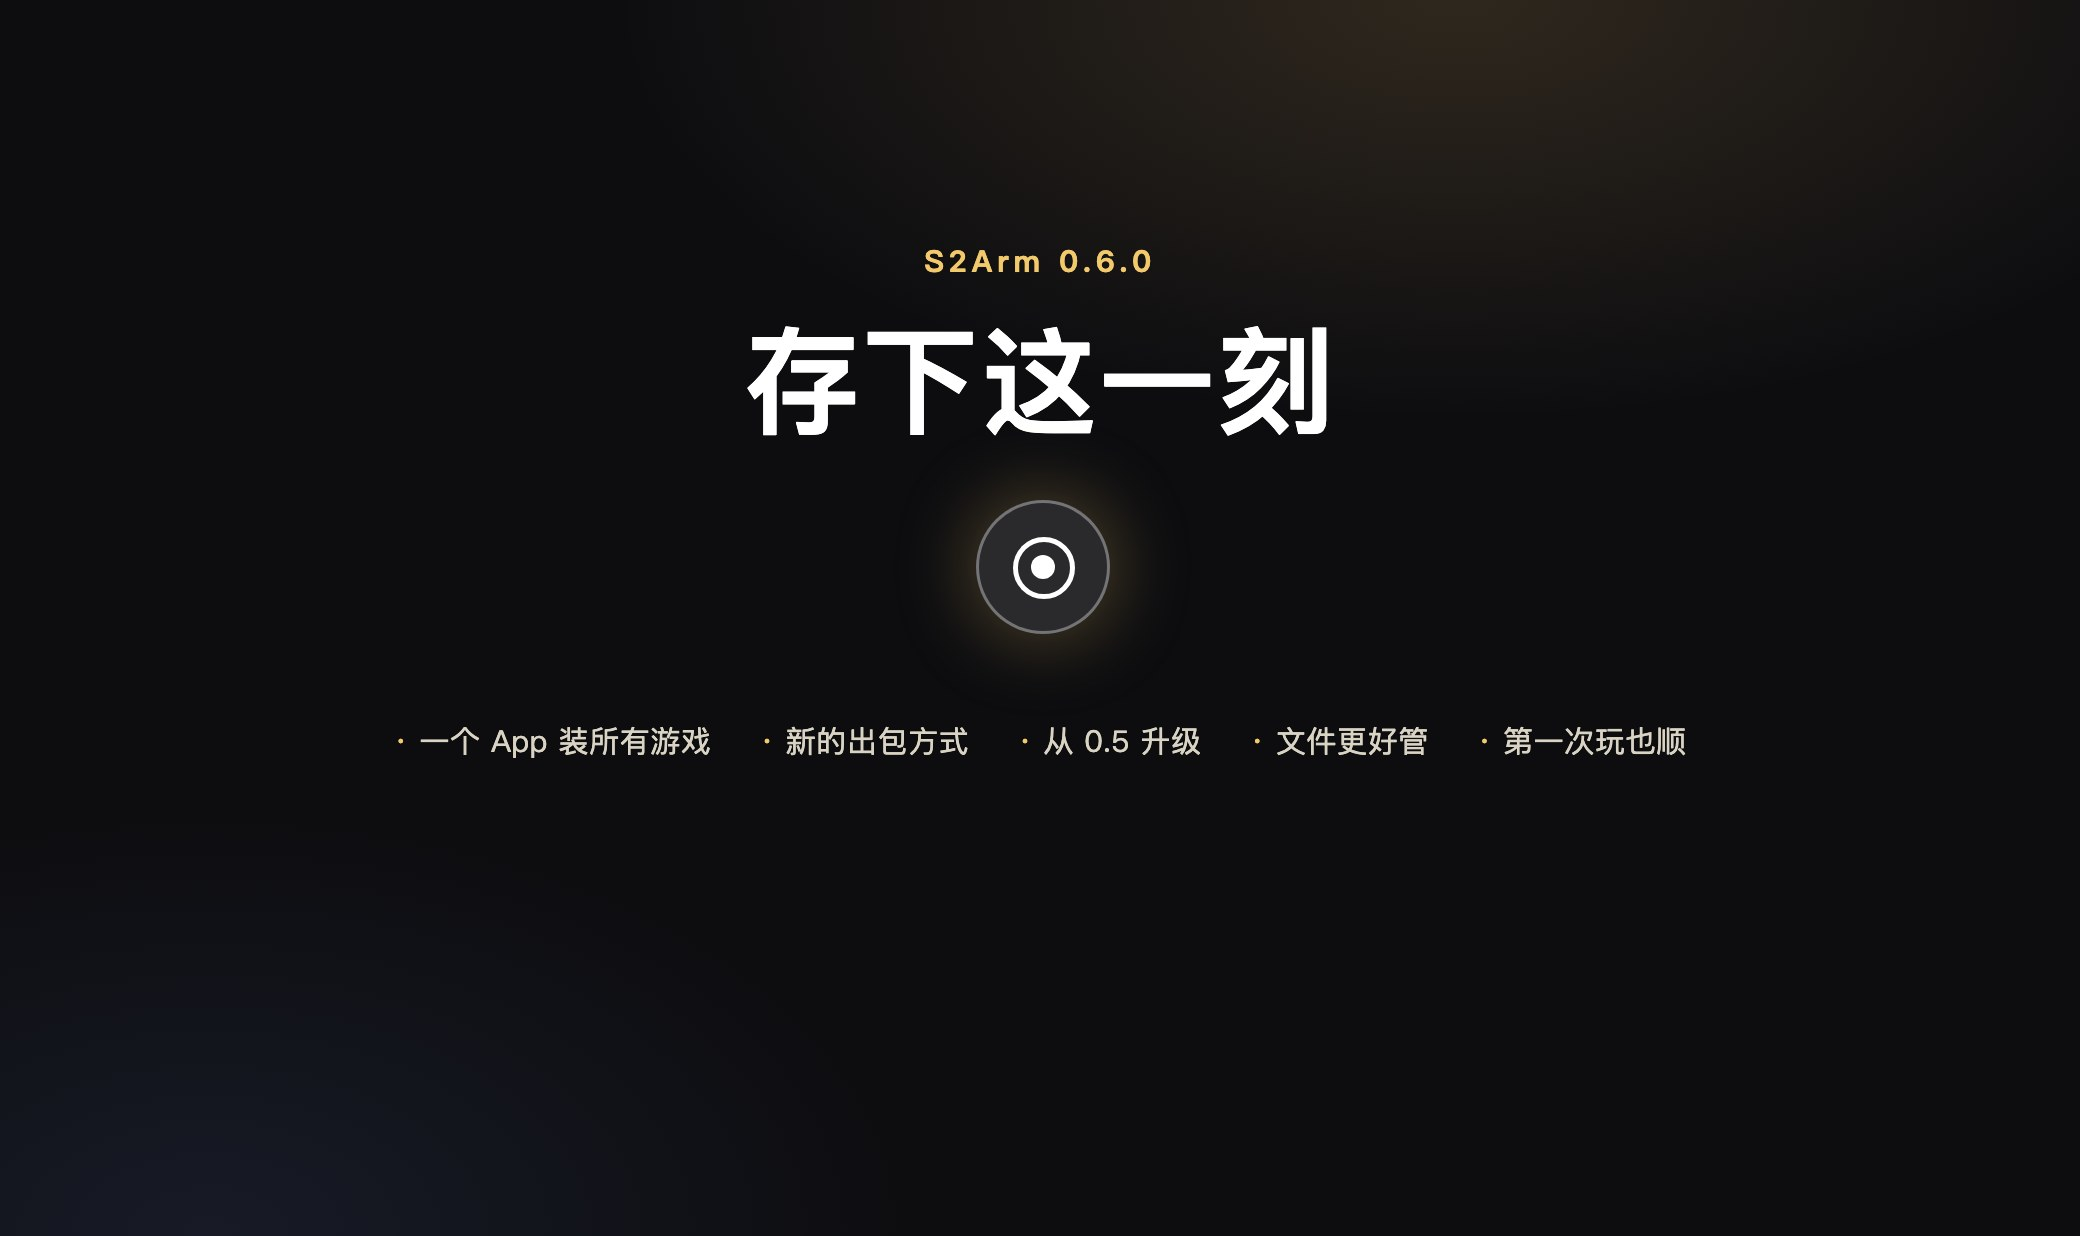
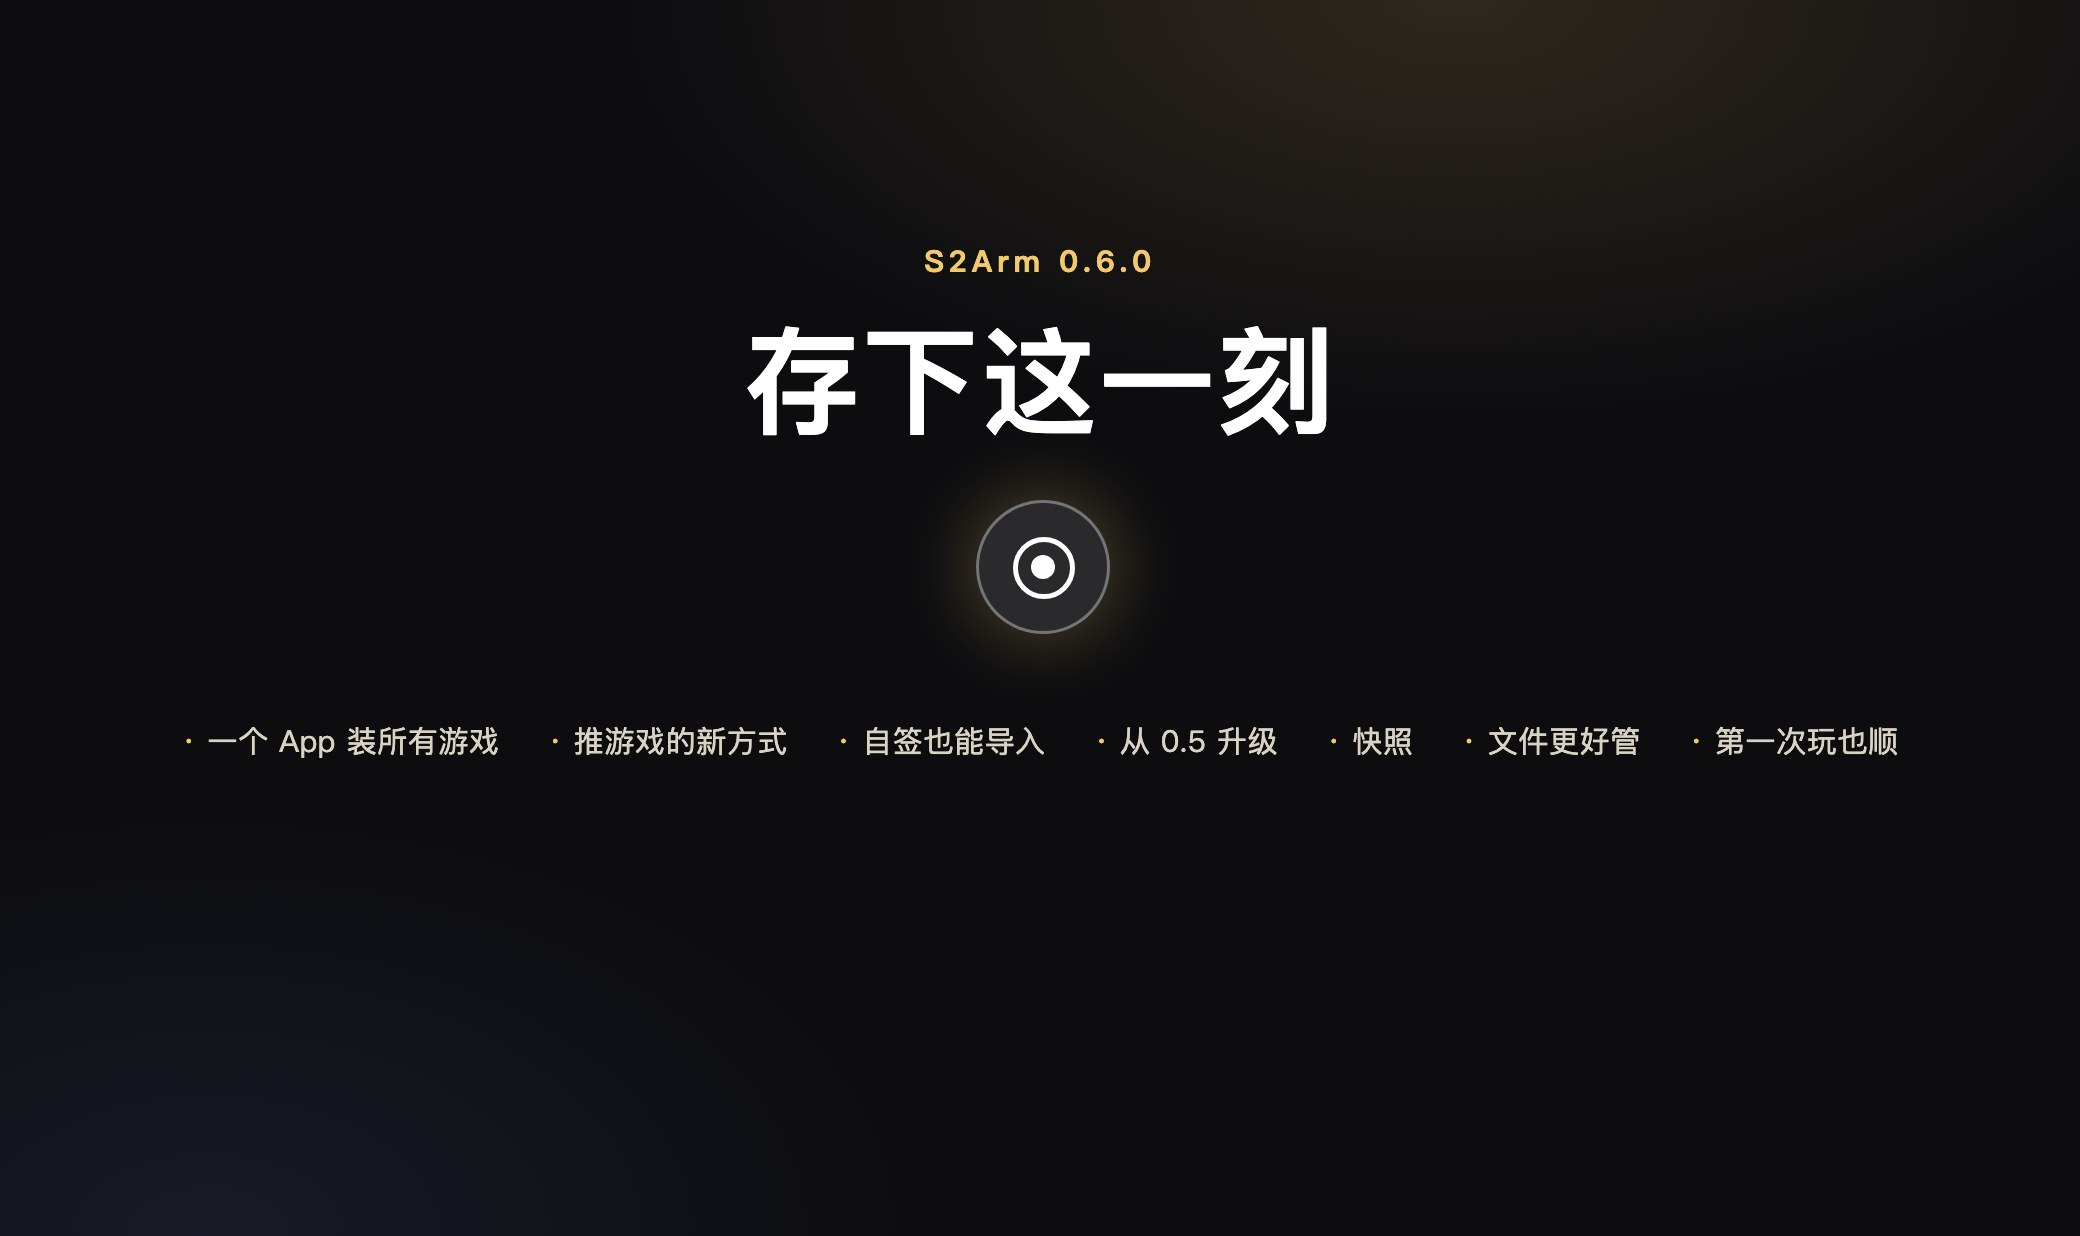
docs: 0.6.0 新功能大窗按当前界面核对更新、发版说明自签升级路径与快照大小更正
大窗（docs/site/feature.json + 图）：
- 文字和按钮名对齐当前界面：续签按钮装好就在；AltStore / SideStore 装的 S2Arm 在总控台的按钮；
  SideStore 一键「从 SideStore 获取」；Mac 在设置「签名身份」登录 Apple ID；「从这一刻继续」位置；
  释放空间的英文分项名和「存储总览」位置。
- 自签玩家从 0.5 升级拿新版 S2Arm.ipa 的路径改成现在能走通的：「安装 S2Arm」→ 未登录那页的
  「改为导出自签包（不用连手机）」（原写的「出完之后」那条已不影响首位卡按钮）。
- 大窗说明区固定高度不能滚动，第 3–6 页超长的格子压短到在 1040×618 里放得下（中英逐页实截核过）。
- 重出封面（标签补自签、快照）、推游戏页（总控台按钮换成当前三颗）、自签页、快照页四组图。
发版说明：自签升级路径同上；快照大小改为实测约 0.2–0.5 GB（整份落盘实测，不标平台）。

Changed region(s): [[0.0938, 0.5841, 0.6875, 0.6149], [0.7188, 0.5841, 0.9062, 0.6149]]

diff --git a/notes/v0.6.0.md b/notes/v0.6.0.md
@@ -3,8 +3,8 @@
 ## 这一版的重点
 - **一个 App，装下所有游戏**：手机上只装一次 S2Arm，所有游戏都在它的游戏库里；以后哪款想玩就在电脑上把哪款「推到 iPhone」。S2Arm 更新、续签都不用重推游戏，存档也都在。装 App、续签、更新在启动器游戏库第一格的「S2Arm」里。0.5 的「每款游戏一个 App」装法已撤掉。
   *One app for every game: install S2Arm on your phone once and every game lives in its library. Whenever you want another game, use Push to iPhone on the computer. Updating or renewing S2Arm never means re-pushing games, and your saves stay. Install, renew and update the app from the S2Arm tile, first in the launcher's game library. The 0.5 one-app-per-game install is gone.*
-- **快照：存下这一刻，随时回来**：游戏里点右上角的半透明按钮，此刻的游戏状态整个存下；长按它选「回到上次存下的这一刻」就回去。下次打开游戏库，最上面的「从这一刻继续」点一下直接进。每款只留最新一份，长按可删，设置里可关；快照只在存下它的那台设备上能用。游戏内存里重复的内容只存一份，大小随游戏不同：iPhone 上实测一款卡牌游戏约 0.2 GB、一款大型格斗游戏约 0.5 GB，存一次的时间也没有变长。
-  *Snapshots: tap the translucent button at the top right in game to save the whole game state as it is right now; long-press it and choose to return to the last saved moment. Next time, tap the game under Continue from this moment at the top of the library. One snapshot per game (a new one replaces the old); long-press to delete, or turn it off in settings. A snapshot works only on the device that saved it. Repeated content in game memory is stored only once, and the size varies by game: measured on iPhone, about 0.2 GB for a card game and about 0.5 GB for a large fighting game, with no longer save times.*
+- **快照：存下这一刻，随时回来**：游戏里点右上角的半透明按钮，此刻的游戏状态整个存下；长按它选「回到上次存下的这一刻」就回去。下次打开游戏库，最上面的「从这一刻继续」点一下直接进。每款只留最新一份，长按可删，设置里可关；快照只在存下它的那台设备上能用。游戏内存里重复的内容只存一份，大小随游戏不同，实测约 0.2–0.5 GB（一款卡牌游戏约 0.2 GB，一款大型格斗游戏约 0.5 GB），存一次的时间也没有变长。
+  *Snapshots: tap the translucent button at the top right in game to save the whole game state as it is right now; long-press it and choose to return to the last saved moment. Next time, tap the game under Continue from this moment at the top of the library. One snapshot per game (a new one replaces the old); long-press to delete, or turn it off in settings. A snapshot works only on the device that saved it. Repeated content in game memory is stored only once, and the size varies by game: measured at about 0.2–0.5 GB (about 0.2 GB for a card game, about 0.5 GB for a large fighting game), with no longer save times.*
 - **推到 iPhone 快多了**：以前一款大游戏的程序要一个文件一个文件地推（1,500 多个文件约一小时）；现在打成一个 .s2arm 文件一次推过去，手机上的 S2Arm 自己解开换上。实测一款 1,545 个文件的大游戏：打包 6.9 秒，手机解开 6.6 秒。
   *Much faster Push to iPhone: a big game's program used to go over file by file (1,500+ files, about an hour). Now it goes as a single .s2arm file and S2Arm on the phone unpacks it. Measured on a big game with 1,545 files: 6.9 s to pack, 6.6 s to unpack on the phone.*
 - **进新场景不再卡一下**：出包时把着色器提前编成苹果显卡的格式。玩家诊断里 69 款游戏在设备上现编失败的着色器共 26,809 个：除去 278 个本身读不成着色器的坏输入，其余 26,531 个现在全部能编出。
@@ -70,8 +70,8 @@
 3. 装完同一页会列出这台手机上要更新的旧游戏，默认全勾，点「更新这 N 款」，每款约 1–2 分钟。旧版做的着色器库电脑会顺带按新版重做，第一次要几分钟到几十分钟。不用点 S 级优化。
    *The same page lists the old games on this phone, all ticked; click Update these N games, about 1–2 minutes each. Shader libraries made by the old version are rebuilt along the way, taking minutes to tens of minutes the first time. No need to run S-grade optimization.*
 
-第 3 步做完之前，这些游戏在手机上显示「需要导入一次 .s2arm」，存档和数据都在：点它直接选这款的 .s2arm 导入。别的电脑装的另起一行列出，到那台电脑上更新。用 AltStore 等自己签名的：先在电脑启动器出包页的「出完之后」选「导出自签包」，再点游戏库第一格「S2Arm」里的按钮，导出新版 S2Arm.ipa，用 AltStore 装上覆盖旧的；在 AltStore 设置里导出签名证书，导进 S2Arm（齿轮 →「签名证书」→「导入 .p12…」）；最后把手机连上电脑，在总控台点「推所选到 iPhone」；或者对每款点「导出自签包」，把 .s2arm 和 .img 放进「放这里导入」。
-*Until step 3 is done, those games show "Needs its .s2arm once" on the phone, and saves and data are all still there: tap it to pick this game's .s2arm and import it. Games installed from another computer are listed separately; update them there. If you self-sign with AltStore or similar: in the launcher's build page, set After building to Export for self-signing, then click the button on the S2Arm tile (first in the game library) to export the new S2Arm.ipa and install it over the old one with AltStore; export your signing certificate in AltStore settings and import it into S2Arm (gear → Signing certificate → Import .p12…); finally connect the phone and click Send selected to iPhone in the console, or click Export for self-signing on each game and put its .s2arm and .img into Import Here.*
+第 3 步做完之前，这些游戏在手机上显示「需要导入一次 .s2arm」，存档和数据都在：点它直接选这款的 .s2arm 导入。别的电脑装的另起一行列出，到那台电脑上更新。用 AltStore 等自己签名的：连上手机，在游戏库第一格「S2Arm」里点「安装 S2Arm」，在提示还没登录 Apple ID 的那一页点「改为导出自签包（不用连手机）」，得到新版 S2Arm.ipa，用 AltStore 装上覆盖旧的；再导入签名证书（SideStore 在 S2Arm 里点「从 SideStore 获取」，AltStore 导出后点「导入 .p12…」）；最后在总控台点「推所选到 iPhone」，或对每款点「导出自签包」，把 .s2arm 和 .img 放进「放这里导入」。
+*Until step 3 is done, those games show "Needs its .s2arm once" on the phone, and saves and data are all still there: tap it to pick this game's .s2arm and import it. Games installed from another computer are listed separately; update them there. If you self-sign with AltStore or similar: connect the phone, click Install S2Arm on the S2Arm card first in the library, and on the page saying you aren't signed in with an Apple ID, click Export for self-signing instead (no iPhone needed) to get the new S2Arm.ipa; install it over the old one with AltStore; import your signing certificate (SideStore: Get from SideStore in S2Arm; AltStore: export it, then Import .p12…); finally click Send selected to iPhone in the console, or click Export for self-signing on each game and put its .s2arm and .img into Import Here.*
 
 ## 系统要求
 - iPhone / iPad：iOS / iPadOS 18 或更新　*iOS / iPadOS 18 or later*
